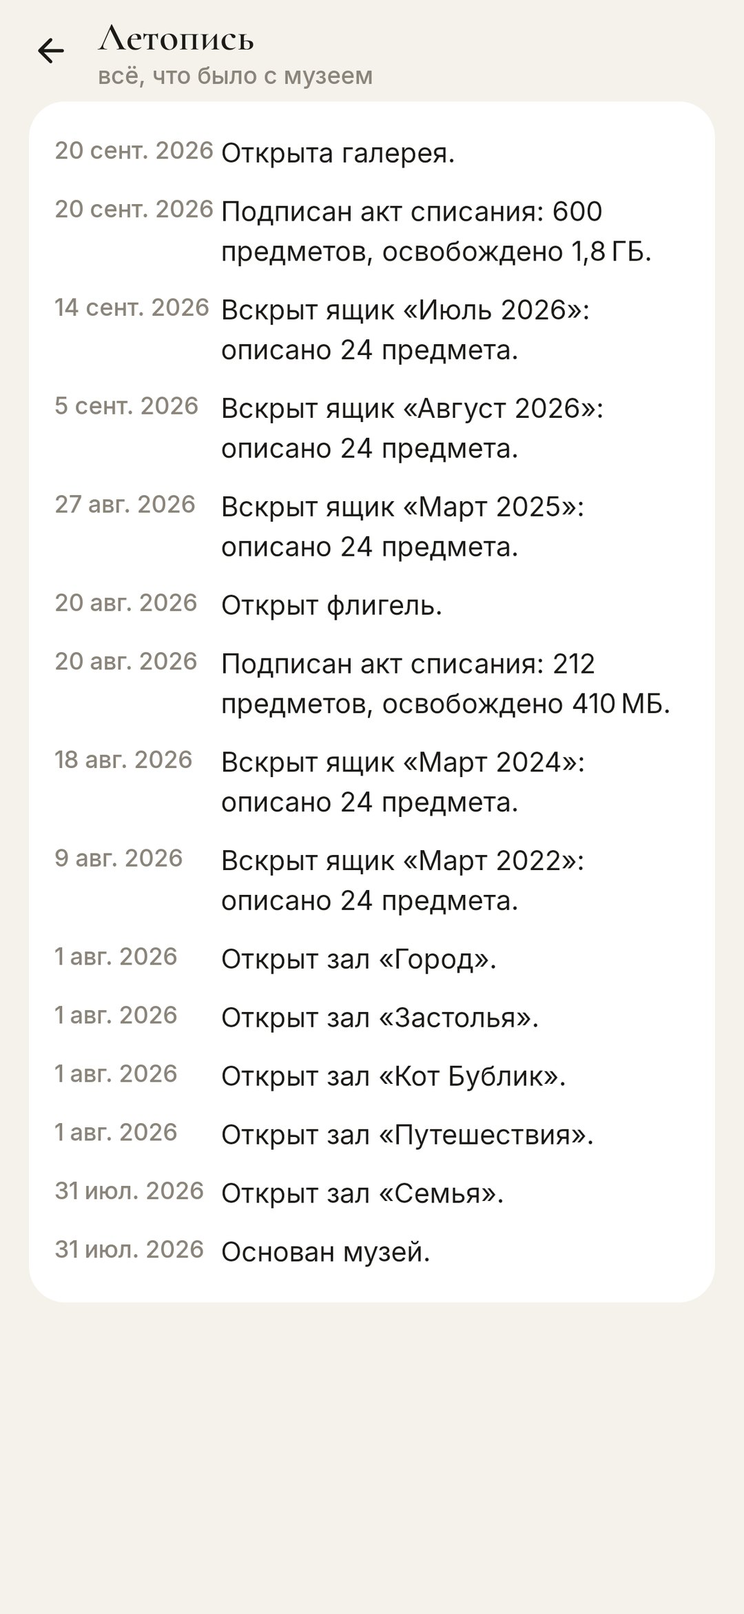
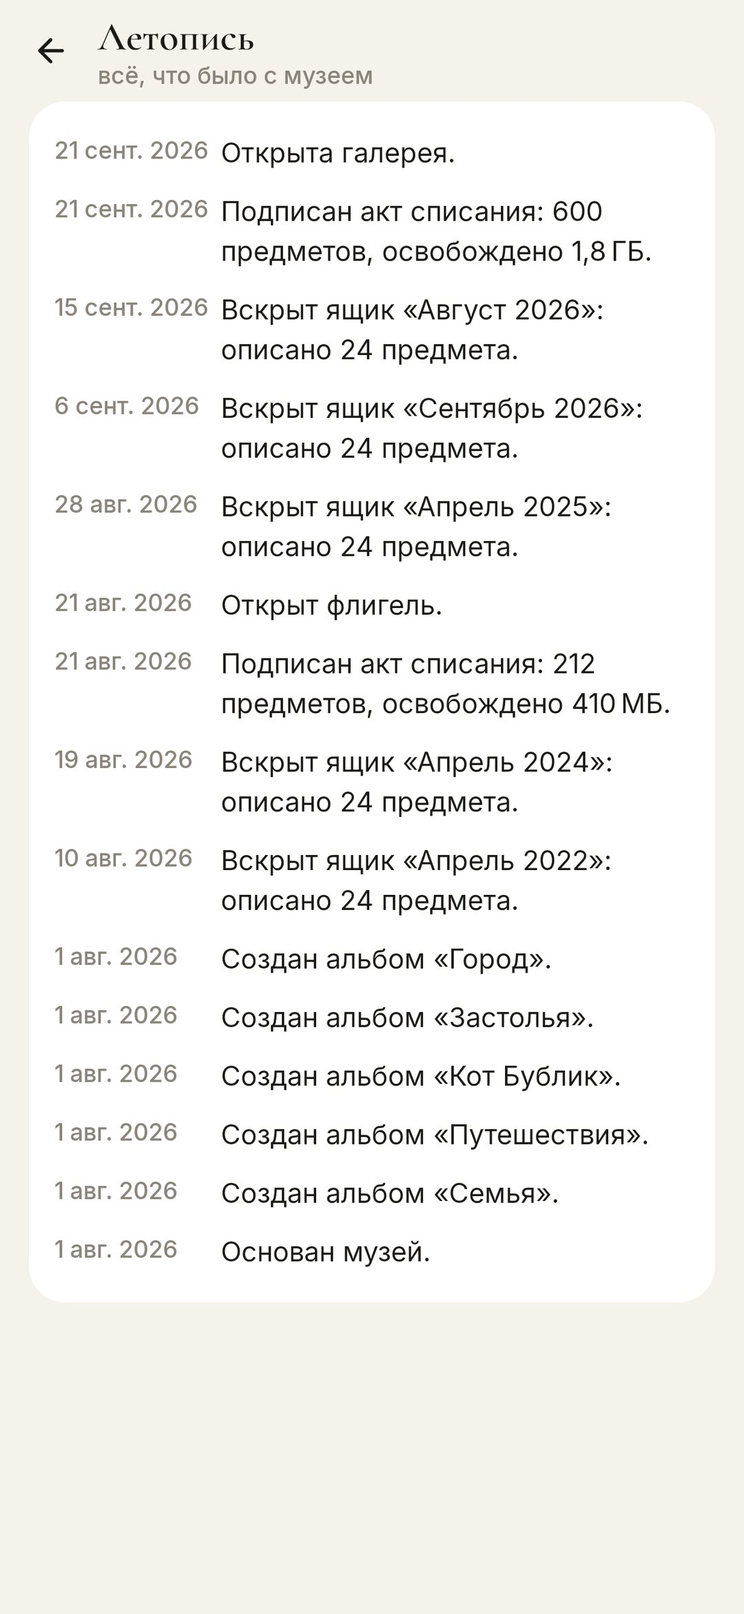
Plainer words: keep and albums instead of stores and halls
"Stores" read as a separate place next to the halls. A kept photo is
now simply kept, a swipe down puts it into an album, and the act offers
"Don't delete". Museum words stay where they don't get in the way.

diff --git a/tools/res.py b/tools/res.py
@@ -26,7 +26,7 @@ S = [
     # museum
     ("chronicle", "Chronicle", "Летопись"),
     ("chronicle_sub", "everything the museum has lived through", "всё, что было с музеем"),
-    ("in_fonds", "in the stores", "в фондах"),
+    ("in_fonds", "kept", "оставлено"),
     ("exhibits", "exhibits", "экспонатов"),
     ("freed", "freed", "освобождено"),
     ("wing_next", "Next to build: %1$s. Free %2$s more", "Следующая стройка — %1$s. Осталось освободить %2$s"),
@@ -35,10 +35,10 @@ S = [
     ("partial_t", "The museum sees only the photos you picked", "Музею открыты только выбранные фото"),
     ("partial_b", "To sort the whole gallery, allow access to all photos and videos. Tap here.", "Чтобы разобрать всю галерею, разрешите доступ ко всем фото и видео. Нажмите сюда."),
     ("act_waits", "The act is waiting for your signature", "Акт ждёт вашей подписи"),
-    ("otd_t", "Out of the stores", "Из запасника"),
+    ("otd_t", "From the storeroom", "Из запасника"),
     ("otd_b", "taken on this very day", "снято в этот самый день"),
     ("otd_exhibit", "one of your exhibits, taken on this very day", "ваш экспонат, снятый в этот самый день"),
-    ("funds", "Special collections", "Особые фонды"),
+    ("funds", "Special crates", "Особые ящики"),
     ("fund_shots", "Screenshots", "Скриншоты"),
     ("fund_video", "Videos", "Видео"),
     ("fund_chats", "From chats", "Из чатов"),
@@ -67,15 +67,15 @@ S = [
     ("d_dark", "Too dark", "Темно"),
     ("d_dup", "Duplicate", "Дубль"),
     ("a_del", "write off", "списать"),
-    ("a_hall", "to a hall", "в зал"),
+    ("a_hall", "album", "в альбом"),
     ("a_ex", "exhibit", "экспонат"),
-    ("a_keep", "keep", "в фонды"),
+    ("a_keep", "keep", "оставить"),
     ("s_del", "written off", "списано"),
-    ("s_keep", "kept", "в фонды"),
-    ("s_hall", "to a hall", "в зал"),
+    ("s_keep", "kept", "оставлено"),
+    ("s_hall", "to album", "в альбом"),
     ("s_later", "later", "отложено"),
     ("s_ex", "exhibit", "экспонат"),
-    ("gestures", "↑ write off · → keep · ↓ hall · ← later · hold: exhibit", "↑ списать · → в фонды · ↓ в зал · ← потом · удержать ★"),
+    ("gestures", "↑ write off · → keep · ↓ album · ← later · hold ★", "↑ списать · → оставить · ↓ в альбом · ← потом · удержать ★"),
     ("later_note", "Put aside: it comes back at the end of the crate", "Отложено: вернётся в конце ящика"),
     ("nothing_to_undo", "Nothing to undo", "Возвращать нечего"),
     ("series_first", "Choose the original first", "Сначала выберите подлинник"),
@@ -85,11 +85,11 @@ S = [
     ("keep_all", "Keep all", "Оставить все"),
     ("keep_original", "Keep the original", "Оставить подлинник"),
     ("inv_no", "Inv. No. %1$s", "Инв. № %1$s"),
-    ("which_hall", "Which hall?", "В какой зал?"),
-    ("new_hall", "Open a new hall", "Открыть новый зал"),
-    ("new_hall_t", "A new hall", "Новый зал"),
+    ("which_hall", "Which album?", "В какой альбом?"),
+    ("new_hall", "New album", "Новый альбом"),
+    ("new_hall_t", "New album", "Новый альбом"),
     ("new_hall_hint", "What is it called?", "Как он называется?"),
-    ("open_hall", "Open the hall", "Открыть зал"),
+    ("open_hall", "Create the album", "Создать альбом"),
     ("sum_caps", "Inventory closed", "Опись закрыта"),
     ("sum_t", "The crate is done", "Ящик разобран"),
     ("to_act", "into the act", "в акт"),
@@ -106,17 +106,17 @@ S = [
     ("act_no", "Act No. %1$d", "Акт № %1$d"),
     ("act_empty_sub", "nothing to write off", "списывать нечего"),
     ("act_empty", "Things you write off in the crates wait here for your signature. Until you sign, nothing is deleted.", "Сюда попадает всё, что вы списали в ящиках. Пока акт не подписан, ничего не удаляется."),
-    ("act_hint", "Nothing is deleted until you sign. Tap a thing to look at it again or take it back into the stores.", "Пока акт не подписан, ничего не удаляется. Коснитесь предмета, чтобы рассмотреть его или вернуть в фонды."),
+    ("act_hint", "Nothing is deleted until you sign. Tap a thing to look at it again or keep it after all.", "Пока акт не подписан, ничего не удаляется. Коснитесь предмета, чтобы рассмотреть его или всё-таки оставить."),
     ("curator_sign", "Curator", "Хранитель"),
     ("curator_name", "the Curator", "Хранитель"),
     ("sign_free", "Sign: free %1$s", "Подписать — освободить %1$s"),
     ("sign_hint", "The phone will ask once for all of them.", "Телефон спросит разрешения один раз — за всё сразу."),
     ("act_signed", "Act signed", "Акт подписан"),
-    ("return_fonds", "Back to the stores", "Вернуть в фонды"),
+    ("return_fonds", "Don’t delete", "Не удалять"),
     ("leave_in_act", "Leave in the act", "Оставить в акте"),
     ("open_gallery", "Open in the gallery", "Открыть в галерее"),
     # halls
-    ("halls_caps", "Floor plan", "План экспозиции"),
+    ("halls_caps", "Your albums", "Ваши альбомы"),
     ("halls_title", "Halls", "Залы"),
     ("show_caps", "Exhibition of the week", "Выставка недели"),
     ("show_in_hall", "Exhibition of the week · in the lobby", "Выставка недели · в вестибюле"),
@@ -127,18 +127,18 @@ S = [
     ("past_shows", "Past exhibitions", "Прошлые выставки"),
     ("plan", "Plan", "План"),
     ("main_hall", "Main hall", "Главный зал"),
-    ("halls_hint", "A hall is your own album. A swipe down in a crate hangs the thing in one.", "Зал — это ваш альбом. Смахните карточку в ящике вниз, чтобы повесить её в зал."),
-    ("hall_empty", "The hall is empty for now. Swipe a card down in any crate to hang it here.", "Зал пока пуст. Смахните карточку вниз в любом ящике, и она повиснет здесь."),
+    ("halls_hint", "Every hall is an album. Swipe a card down in a crate to put it into one.", "Каждый зал — это альбом. Смахните карточку в ящике вниз, чтобы положить её в альбом."),
+    ("hall_empty", "The album is empty for now. Swipe a card down in any crate and it lands here.", "Альбом пока пуст. Смахните карточку вниз в любом ящике — и она окажется здесь."),
     ("main_empty", "No exhibits yet. Hold a card in a crate to make it one.", "Экспонатов пока нет. Удержите карточку в ящике — и она станет экспонатом."),
-    ("folder_t", "Make it a real album", "Сделать настоящим альбомом"),
-    ("folder_b", "The photos move to %1$s, and every gallery app shows the hall as an album.", "Фото переедут в папку %1$s, и любая галерея покажет зал как альбом."),
+    ("folder_t", "Show it in the phone's gallery", "Показать в галерее телефона"),
+    ("folder_b", "The photos move to %1$s, and the phone's gallery shows this album.", "Фото переедут в папку %1$s — и галерея телефона покажет этот альбом."),
     ("folder_set", "Lives in the folder %1$s: the gallery shows it as an album.", "Лежит в папке %1$s — галерея показывает его как альбом."),
     ("folder_go", "Move into the folder", "Переложить в папку"),
     ("folder_again", "Move the new ones too", "Переложить и новые"),
-    ("close_hall", "Close the hall", "Закрыть зал"),
-    ("close_hall_hint", "The things stay in the stores and in the gallery; only the hall goes.", "Предметы останутся в фондах и в галерее, исчезнет только зал."),
+    ("close_hall", "Delete the album", "Удалить альбом"),
+    ("close_hall_hint", "The photos stay in the gallery; only the album goes.", "Фото останутся в галерее, исчезнет только альбом."),
     ("unexhibit", "Take off the wall", "Снять с экспозиции"),
-    ("out_of_hall", "Take out of the hall", "Убрать из зала"),
+    ("out_of_hall", "Take out of the album", "Убрать из альбома"),
     # ceremonies & chronicle
     ("freed_caps", "%1$s freed", "Освобождено %1$s"),
     ("ribbon", "Cut the ribbon", "Перерезать ленточку"),
@@ -146,7 +146,7 @@ S = [
     ("ev_founded", "The museum was founded.", "Основан музей."),
     ("ev_crate", "Crate “%1$s” opened:", "Вскрыт ящик «%1$s»:"),
     ("ev_act", "Act of write-off signed: %1$s, %2$s freed.", "Подписан акт списания: %1$s, освобождено %2$s."),
-    ("ev_hall", "Hall “%1$s” opened.", "Открыт зал «%1$s»."),
+    ("ev_hall", "Album “%1$s” created.", "Создан альбом «%1$s»."),
     ("ev_rank", "Rank given: %1$s.", "Присвоено звание: %1$s."),
     # onboarding & access
     ("ob_1t", "Your gallery is a museum storeroom", "Ваша галерея — запасник музея"),
@@ -157,9 +157,9 @@ S = [
     ("tr_up_t", "Swipe up", "Смахните вверх"),
     ("tr_up_b", "A blurred shot. Up means write off: it goes into the act.", "Смазанный кадр. Вверх — списать: он уйдёт в акт."),
     ("tr_right_t", "Swipe right", "Смахните вправо"),
-    ("tr_right_b", "A good one. Right means keep it in the stores.", "Хороший кадр. Вправо — оставить в фондах."),
+    ("tr_right_b", "A good one. Right means keep: it stays in the gallery as it was.", "Хороший кадр. Вправо — оставить: он останется в галерее как был."),
     ("tr_down_t", "Swipe down", "Смахните вниз"),
-    ("tr_down_b", "Down hangs it in a hall: halls are your albums.", "Вниз — повесить в зал. Залы — это ваши альбомы."),
+    ("tr_down_b", "Down keeps it too, and puts it into an album: a hall of the museum.", "Вниз — тоже оставить, но ещё и положить в альбом, то есть в зал музея."),
     ("tr_left_t", "Swipe left", "Смахните влево"),
     ("tr_left_b", "Not sure? Left puts it aside: it comes back later.", "Сомневаетесь? Влево — отложить, предмет вернётся позже."),
     ("tr_hold_t", "Press and hold", "Нажмите и удержите"),
@@ -232,10 +232,10 @@ A = [
               ["Смотритель", "Младший научный сотрудник", "Хранитель", "Старший хранитель", "Главный хранитель", "Директор музея"]),
     ("rank_text", ["You sit in the corner of the hall and watch.", "A hundred things described. They gave you a desk and a lamp.",
                    "Five hundred things. You have keys to the storeroom now.", "Two thousand things. The young ones come to you for advice.",
-                   "Five thousand things. Nothing enters the stores without your signature.", "Twelve thousand things. The museum is yours: from the cellar to the dome."],
+                   "Five thousand things. Nothing is written off without your signature.", "Twelve thousand things. The museum is yours: from the cellar to the dome."],
                   ["Сидите в углу зала и присматриваете.", "Описана первая сотня предметов. Вам выделили стол и лампу.",
                    "Пятьсот предметов. Теперь у вас ключи от запасника.", "Две тысячи предметов. Молодые сотрудники ходят к вам за советом.",
-                   "Пять тысяч предметов. Без вашей подписи в фонды ничего не попадает.", "Двенадцать тысяч предметов. Музей ваш — от подвала до купола."]),
+                   "Пять тысяч предметов. Без вашей подписи ничего не списывается.", "Двенадцать тысяч предметов. Музей ваш — от подвала до купола."]),
     ("wings", ["the main block", "the wing", "the gallery", "the rotunda", "the observatory", "the sculpture garden"],
               ["главный корпус", "флигель", "галерея", "ротонда", "обсерватория", "сад скульптур"]),
     ("wing_opened", ["The main block opened.", "The wing opened.", "The gallery opened.", "The rotunda opened.", "The observatory opened.", "The sculpture garden opened."],

diff --git a/README.ru.md b/README.ru.md
@@ -6,7 +6,7 @@
 
 ### Разбор галереи телефона как работа хранителя музея
 
-*Тысячи фотографий лежат в ящиках — по ящику на месяц. Вскрывайте по одному: пара десятков карточек, пара минут. Один жест на предмет: списать, оставить в фондах, повесить в зал, сделать экспонатом. Пока акт списания не подписан, ничего не удаляется, а освобождённое место достраивает музей — крыло за крылом. Бесплатно, без рекламы, без интернета.*
+*Тысячи фотографий лежат в ящиках — по ящику на месяц. Вскрывайте по одному: пара десятков карточек, пара минут. Один жест на предмет: списать, оставить, положить в альбом, сделать экспонатом. Пока акт списания не подписан, ничего не удаляется, а освобождённое место достраивает музей — крыло за крылом. Бесплатно, без рекламы, без интернета.*
 
 [![Android CI](https://github.com/bigdevwhale/curator/actions/workflows/android.yml/badge.svg)](https://github.com/bigdevwhale/curator/actions/workflows/android.yml)
 ![Android 11+](https://img.shields.io/badge/Android-11%2B-3C9D50?logo=android&logoColor=white)
@@ -27,12 +27,12 @@
 - **Ящики по месяцам.** Галерея приходит ящиками поступлений, у каждого видно, сколько ещё не описано. Особые фонды идут поперёк месяцев: скриншоты, видео (самые тяжёлые — первыми), картинки из мессенджеров, всё тяжелее 20 МБ.
 - **Сначала эксперт.** Смазанное, снятое в кармане, скриншоты и точные дубли откладываются заранее, прямо на телефоне. Вы подтверждаете одной кнопкой или спасаете любой предмет касанием.
 - **Серии.** Пять почти одинаковых кадров за минуту приходят одной карточкой: выберите подлинник, копии уйдут в акт.
-- **Один жест.** ↑ списать · → в фонды · ↓ в зал · ← отложить · удержать — экспонат. То же самое кнопками, а «вернуть» отменяет последнюю карточку.
+- **Один жест.** ↑ списать · → оставить · ↓ в альбом · ← отложить · удержать — экспонат. То же самое кнопками, а «вернуть» отменяет последнюю карточку.
 - **Инвентарная карточка** у каждого предмета: номер (КП-2021/03-0147), дата и время, папка и вес.
 
 ## Случайно ничего не пропадёт
 
-- **Акт списания.** Всё списанное ждёт в акте: можно рассмотреть ещё раз или вернуть в фонды. При подписи Android спрашивает один раз — за весь акт.
+- **Акт списания.** Всё списанное ждёт в акте: можно рассмотреть ещё раз или всё-таки оставить. При подписи Android спрашивает один раз — за весь акт.
 - **Нет доступа в интернет.** Фото не покидают телефон.
 
 ## Музей растёт

diff --git a/README.md b/README.md
@@ -6,7 +6,7 @@
 
 ### Sort your phone's gallery like the storeroom of a museum
 
-*Thousands of photos wait in crates, one crate per month. Open one at a time: twenty-odd cards, a couple of minutes. One gesture per thing: write it off, keep it, hang it in a hall, make it an exhibit. Nothing is deleted until you sign the act of write-off, and the space you free builds the museum, wing by wing. Free, no ads, no internet.*
+*Thousands of photos wait in crates, one crate per month. Open one at a time: twenty-odd cards, a couple of minutes. One gesture per thing: write it off, keep it, put it into an album, make it an exhibit. Nothing is deleted until you sign the act of write-off, and the space you free builds the museum, wing by wing. Free, no ads, no internet.*
 
 [![Android CI](https://github.com/bigdevwhale/curator/actions/workflows/android.yml/badge.svg)](https://github.com/bigdevwhale/curator/actions/workflows/android.yml)
 ![Android 11+](https://img.shields.io/badge/Android-11%2B-3C9D50?logo=android&logoColor=white)
@@ -28,12 +28,12 @@
 - **Crates by month.** The gallery arrives as crates of arrivals, one per month, each with how much is still undescribed. Special collections cut across the months: screenshots, videos (heaviest first), pictures from chats, everything over 20 MB.
 - **The expert goes first.** Before you start, blurred shots, pocket shots in the dark, screenshots and exact duplicates are put aside on the phone itself (Laplacian sharpness, brightness, a difference hash). You confirm with one button, or tap any of them to save it.
 - **Series.** Five near-identical shots taken within a minute come as one card: pick the original, the copies go into the act.
-- **One gesture.** ↑ write off · → keep · ↓ hang in a hall · ← later · hold to make it an exhibit. The same as buttons, and **undo** takes back the last card.
+- **One gesture.** ↑ write off · → keep · ↓ into an album · ← later · hold to make it an exhibit. The same as buttons, and **undo** takes back the last card.
 - **An inventory card** for every thing: its number (КП-2021/03-0147), date and time, folder and size. A tap shows the whole photo; a video plays in the phone's player.
 
 ## Nothing is lost by accident
 
-- **The act of write-off.** Everything written off waits in the act. Look at any thing again or take it back into the stores. When you sign, Android asks once for the whole act (`MediaStore.createDeleteRequest`).
+- **The act of write-off.** Everything written off waits in the act. Look at any thing again or keep it after all. When you sign, Android asks once for the whole act (`MediaStore.createDeleteRequest`).
 - **No internet permission.** Photos never leave the phone; the expert looks at small thumbnails right here.
 
 ## The museum grows
